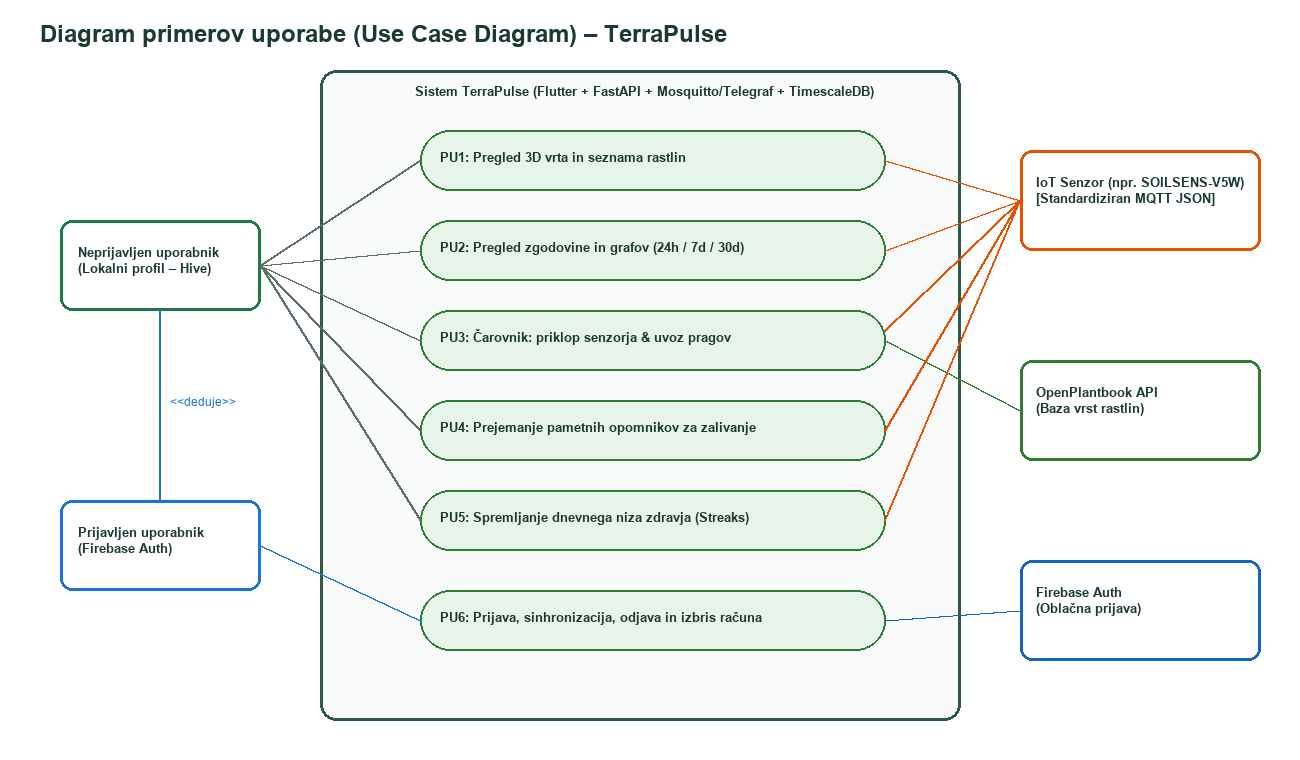
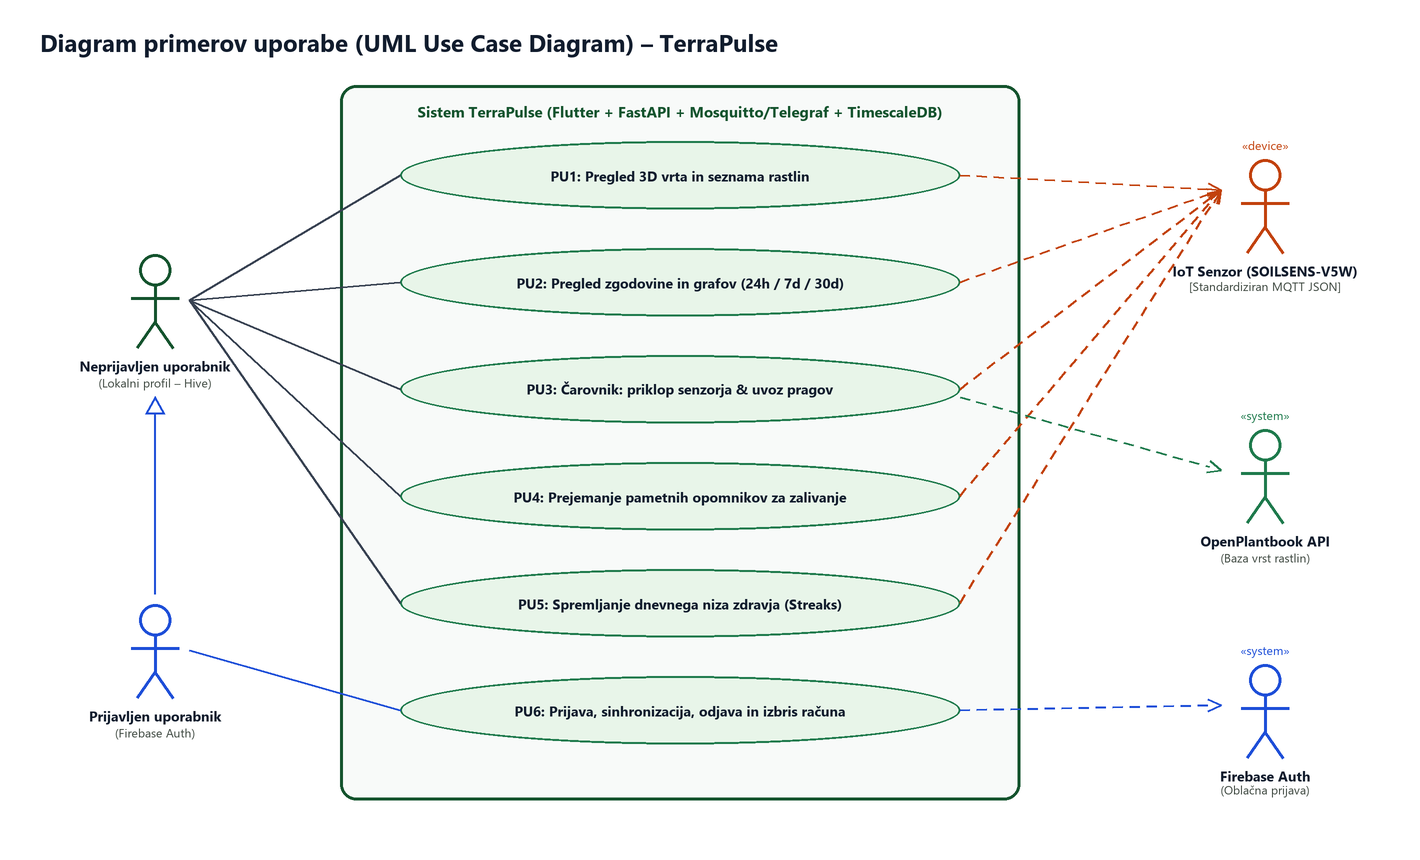
Add improved DPU diagram, fix packages

diff --git a/app/test/widget_test.dart b/app/test/widget_test.dart
@@ -5,7 +5,7 @@
 // gestures. You can also use WidgetTester to find child widgets in the widget
 // tree, read text, and verify that the values of widget properties are correct.
 
-import 'package:flutter/material.dart';
+import 'package:material_ui/material_ui.dart';
 import 'package:flutter_test/flutter_test.dart';
 
 import 'package:terrapulse_app/main.dart';

diff --git a/app/lib/main.dart b/app/lib/main.dart
@@ -1,4 +1,4 @@
-import 'package:flutter/material.dart';
+import 'package:material_ui/material_ui.dart';
 
 void main() {
   runApp(const MyApp());
